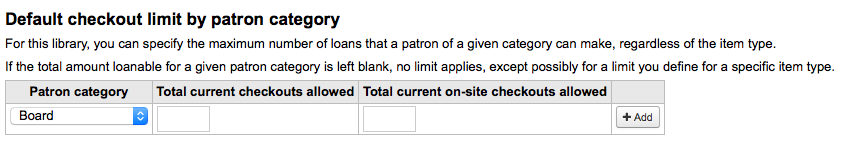
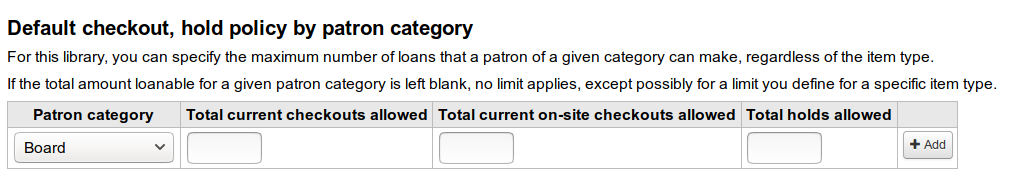
Taiga 668: Set limit on maximum possible holds per patron category [15524]
Updates text and screenshots to include the new max holds setting.

diff --git a/source/administration.rst b/source/administration.rst
@@ -1231,10 +1231,11 @@ message.
 
 .. _default-checkouts-and-hold-policy-label:
 
-Default checkout, hold and return policy
+Default checkout, hold, and return policy
 ^^^^^^^^^^^^^^^^^^^^^^^^^^^^^^^^^^^^^^^^^^^^^^^^^^^^^^^^^^^^^^
 
-You can set a default maximum number of checkouts and hold policy that
+You can set a default maximum number of checkouts, a default maximum number
+of holds and a hold policy that
 will be used if none is defined below for a particular item type or
 category. This is the fall back rule for defaults.
 
@@ -1249,6 +1250,9 @@ patrons in the library if no other option is set in the forms below.
 -  In 'Total current on-site checkouts allowed' enter the total number
    of items patrons can have checked out on site at a time
    (:ref:`OnSiteCheckouts` needs to be set to 'Enable')
+
+-  In 'Maximum total holds allowed (count)' enter the total number
+   of pending holds patrons can have at the same time.
 
 -  Control where patrons can place holds from using the 'Hold Policy'
    menu
@@ -1290,21 +1294,22 @@ patrons in the library if no other option is set in the forms below.
 -  Once your policy is set, you can unset it by clicking the 'Unset'
    link to the right of the rule
 
-.. _checkouts-per-patron-label:
+.. _default-checkouts-and-hold-by-category-label:
 
-Default checkout limit by patron cateogry
+Default checkout and hold policy by patron cateogry
 ^^^^^^^^^^^^^^^^^^^^^^^^^^^^^^^^^^^^^^^^^^^^^
 
-For this library, you can specify the maximum number of loans that a
-patron of a given category can make, regardless of the item type.
+For this library, you can specify the maximum number of checkouts, 
+on-site checkouts and holds that a patron of a given category can have, 
+regardless of the item type.
 
 |image162|
 
     **Note**
 
-    If the total amount loanable for a given patron category is left
-    blank, no limit applies, except possibly for a limit you define for
-    a specific item type.
+    If the total amount of checkouts, on-site checkout and holds
+    for a given patron category is left blank, no limit applies, 
+    except possibly for a limit you define in the circulation rules above.
 
 For example, if you have a rule in the matrix that says Board patrons
 are allowed 10 books and 5 DVDs but you want to make it so that Board
